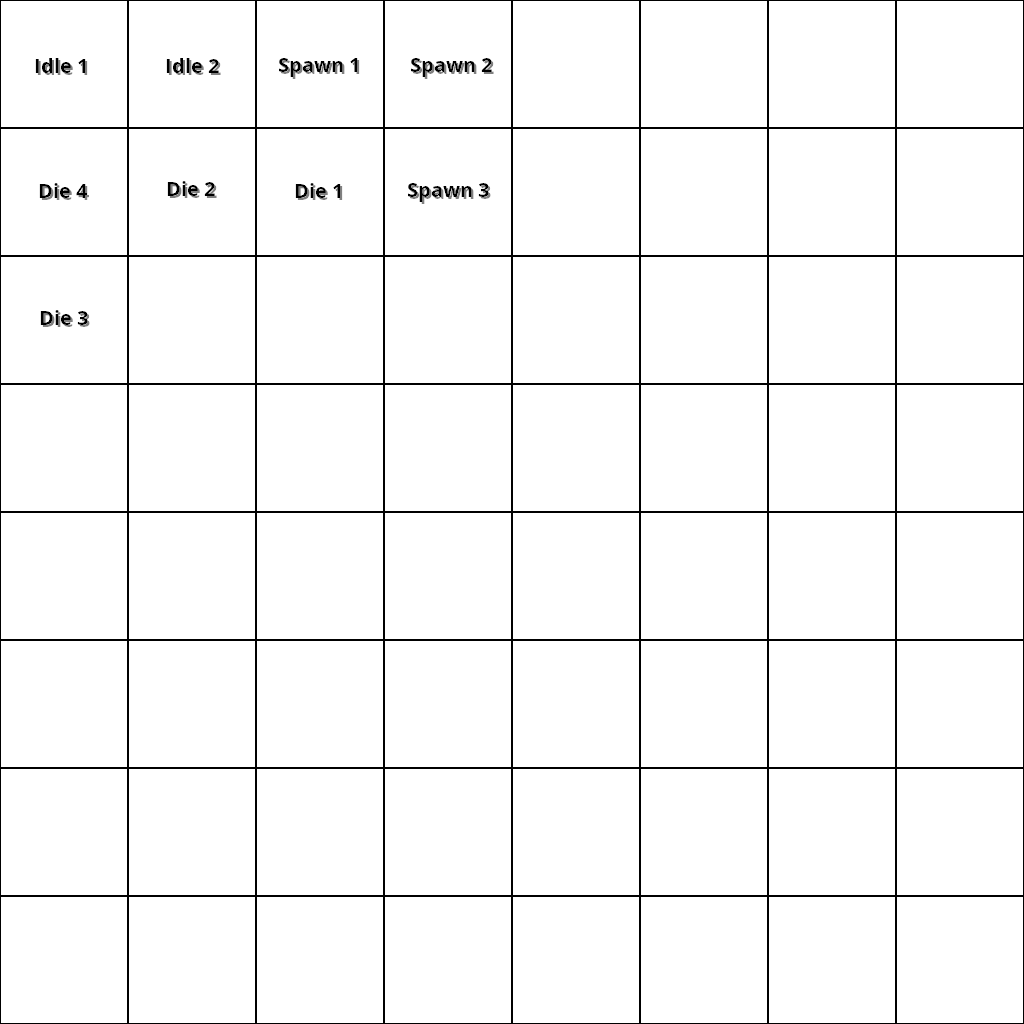
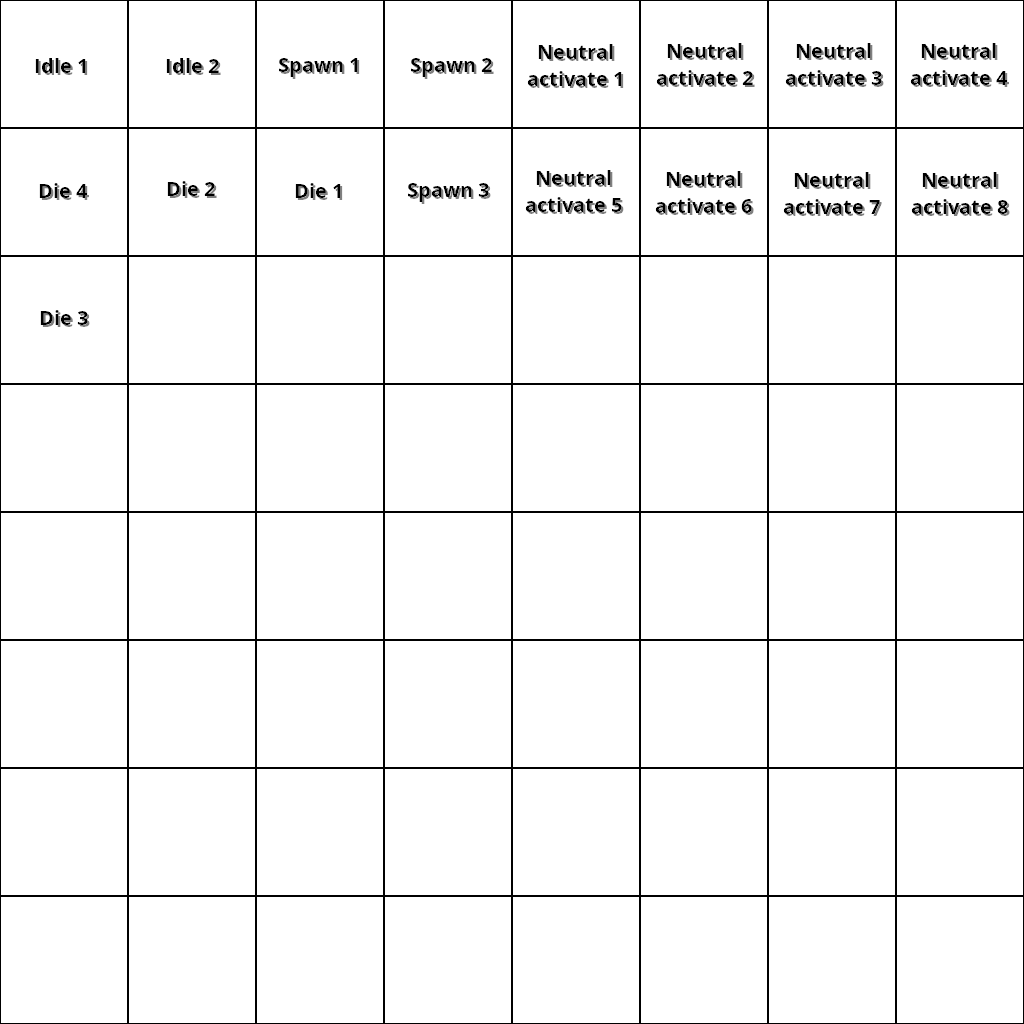
Added neutral shadow

Changed region(s): [[0.5, 0.1562, 1.0, 0.2188], [0.625, 0.0312, 1.0, 0.0938], [0.5, 0.0312, 0.5938, 0.0938]]

diff --git a/src/LibCore/Objects/Characters/VictoriaStar/Shadow.cpp b/src/LibCore/Objects/Characters/VictoriaStar/Shadow.cpp
@@ -72,6 +72,8 @@ namespace SpiralOfFate
 
 	void Shadow::activate()
 	{
+		if (this->_actionBlock >= ANIMBLOCK_NORMAL_ACTIVATED)
+			return;
 		if (this->_actionBlock == ANIMBLOCK_DYING) {
 			this->_animationCtr = this->getCurrentFrameData()->duration - this->_animationCtr - 1;
 			this->_animation = this->_moves.at(this->_action)[this->_actionBlock].size() - this->_animation - 1;
@@ -95,6 +97,8 @@ namespace SpiralOfFate
 		Object::copyToBuffer(data);
 		game->logger.verbose("Saving Shadow (Data size: " + std::to_string(sizeof(Data)) + ") @" + std::to_string((uintptr_t)dat));
 		dat->_invincibleTime = this->_invincibleTime;
+		dat->_boxSize = this->_boxSize;
+		dat->_loopInfo = this->_loopInfo;
 	}
 
 	void Shadow::restoreFromBuffer(void *data)
@@ -104,6 +108,8 @@ namespace SpiralOfFate
 		auto dat = reinterpret_cast<Data *>((uintptr_t)data + Object::getBufferSize());
 
 		this->_invincibleTime = dat->_invincibleTime;
+		this->_boxSize = dat->_boxSize;
+		this->_loopInfo = dat->_loopInfo;
 		game->logger.verbose("Restored Shadow @" + std::to_string((uintptr_t)dat));
 	}
 
@@ -119,6 +125,10 @@ namespace SpiralOfFate
 
 		if (dat1->_invincibleTime != dat2->_invincibleTime)
 			game->logger.fatal(std::string(msgStart) + "Shadow::_invincibleTime: " + std::to_string(dat1->_invincibleTime) + " vs " + std::to_string(dat2->_invincibleTime));
+		if (dat1->_boxSize != dat2->_boxSize)
+			game->logger.fatal(std::string(msgStart) + "Shadow::_boxSize: " + std::to_string(dat1->_boxSize) + " vs " + std::to_string(dat2->_boxSize));
+		if (dat1->_loopInfo != dat2->_loopInfo)
+			game->logger.fatal(std::string(msgStart) + "Shadow::_loopInfo: {" + std::to_string(dat1->_loopInfo.first) + "," + std::to_string(dat1->_loopInfo.second) + "} vs {" + std::to_string(dat2->_loopInfo.first) + "," + std::to_string(dat2->_loopInfo.second) + "}");
 		return length + sizeof(Data);
 	}
 
@@ -136,12 +146,37 @@ namespace SpiralOfFate
 
 	const FrameData *Shadow::getCurrentFrameData() const
 	{
-		auto dat = Object::getCurrentFrameData();
-
-		if (!this->_invincibleTime)
-			return dat;
-		this->_fakeData = *dat;
-
+		this->_fakeData = *Object::getCurrentFrameData();
+		if (this->_invincibleTime) {
+			this->_fakeData.dFlag.invulnerable = true;
+			this->_fakeData.dFlag.grabInvulnerable = true;
+			this->_fakeData.dFlag.projectileInvul = true;
+		}
+		for (auto &box : this->_fakeData.hitBoxes) {
+			box.pos.x -= this->_boxSize / 2;
+			box.pos.y -= this->_boxSize / 2;
+			box.size.x += this->_boxSize;
+			box.size.y += this->_boxSize;
+		}
 		return &this->_fakeData;
+	}
+
+	void Shadow::_applyNewAnimFlags()
+	{
+		Object::_applyNewAnimFlags();
+
+		auto data = this->getCurrentFrameData();
+
+		if (data->specialMarker == 0)
+			return;
+		if (data->specialMarker == 1) {
+			this->_loopInfo.first = this->_animation;
+			return;
+		}
+		if (this->_loopInfo.second == 0)
+			this->_loopInfo.second = data->specialMarker;
+		if (--this->_loopInfo.second == 0)
+			return;
+		this->_animation = this->_loopInfo.first;
 	}
 }

diff --git a/src/FrameDataEditor/dataEditor.cpp b/src/FrameDataEditor/dataEditor.cpp
@@ -2017,22 +2017,28 @@ void	newAnimBlockCallback(tgui::Gui &gui, std::unique_ptr<EditableObject> &objec
 
 void	newHurtBoxCallback(std::unique_ptr<EditableObject> &object, tgui::Panel::Ptr boxes)
 {
-	object->_moves.at(object->_action)[object->_actionBlock][object->_animation].hurtBoxes.push_back({{-10, -10}, {20, 20}});
+	auto &frame = object->_moves.at(object->_action)[object->_actionBlock][object->_animation];
+	auto &arr = frame.hurtBoxes;
 
-	auto &box = object->_moves.at(object->_action)[object->_actionBlock][object->_animation].hurtBoxes.back();
+	arr.push_back({{-10, -10}, {20, 20}});
 
-	refreshBoxes(boxes, object->_moves.at(object->_action)[object->_actionBlock][object->_animation], object);
-	selectBox(boxes->get<tgui::Button>("HurtBox" + std::to_string(object->_moves.at(object->_action)[object->_actionBlock][object->_animation].hurtBoxes.size() - 1)), &box);
+	auto &box = arr.back();
+
+	refreshBoxes(boxes, frame, object);
+	selectBox(boxes->get<tgui::Button>("HurtBox" + std::to_string(arr.size() - 1)), &box);
 }
 
 void	newHitBoxCallback(std::unique_ptr<EditableObject> &object, tgui::Panel::Ptr boxes)
 {
-	object->_moves.at(object->_action)[object->_actionBlock][object->_animation].hitBoxes.push_back({{-10, -10}, {20, 20}});
+	auto &frame = object->_moves.at(object->_action)[object->_actionBlock][object->_animation];
+	auto &arr = frame.hitBoxes;
 
-	auto &box = object->_moves.at(object->_action)[object->_actionBlock][object->_animation].hurtBoxes.back();
+	arr.push_back({{-10, -10}, {20, 20}});
 
-	refreshBoxes(boxes, object->_moves.at(object->_action)[object->_actionBlock][object->_animation], object);
-	selectBox(boxes->get<tgui::Button>("HitBox" + std::to_string(object->_moves.at(object->_action)[object->_actionBlock][object->_animation].hurtBoxes.size() - 1)), &box);
+	auto &box = arr.back();
+
+	refreshBoxes(boxes, frame, object);
+	selectBox(boxes->get<tgui::Button>("HitBox" + std::to_string(arr.size() - 1)), &box);
 }
 
 void	removeFrameCallback(std::unique_ptr<EditableObject> &object, tgui::Panel::Ptr boxes)

diff --git a/src/LibCore/Objects/Characters/VictoriaStar/VictoriaStar.cpp b/src/LibCore/Objects/Characters/VictoriaStar/VictoriaStar.cpp
@@ -99,6 +99,15 @@ namespace SpiralOfFate
 		return length + sizeof(Data);
 	}
 
+	void VictoriaStar::postUpdate()
+	{
+		Character::postUpdate();
+		// Not using std::remove_if because it doesn't work with MSVC for some reasons
+		for (unsigned i = 0; i < this->_shadows.size(); i++)
+			if (this->_shadows[i].second->isDead())
+				this->_shadows.erase(this->_shadows.begin() + i--);
+	}
+
 	static std::map<std::string, Shadow *(*)(
 		const std::vector<std::vector<FrameData>> &frameData,
 		unsigned int hp,
@@ -147,7 +156,13 @@ namespace SpiralOfFate
 				tint
 			));
 
-			return {needRegister ? manager.registerObject(obj) : 0, obj};
+			if (!needRegister)
+				return {0, obj};
+
+			auto objectId = manager.registerObject(obj);
+
+			this->_shadows.emplace_back(objectId, obj);
+			return {objectId, obj};
 		} catch (std::out_of_range &e) {
 			throw std::invalid_argument("Invalid shadow type '" + pdat.json["shadow"].get<std::string>() + "'");
 		}
@@ -231,6 +246,11 @@ namespace SpiralOfFate
 			butterfly.second = reinterpret_cast<Butterfly *>(&*manager.getObjectFromId(butterfly.first));
 		for (auto &butterfly : this->_weirdBufferFlies)
 			butterfly.second = reinterpret_cast<Butterfly *>(&*manager.getObjectFromId(butterfly.first));
+		for (auto &shadow : this->_shadows) {
+			auto obj = manager.getObjectFromId(shadow.first);
+
+			shadow.second = std::shared_ptr<Shadow>(obj, reinterpret_cast<Shadow *>(&*obj));
+		}
 		Character::resolveSubObjects(manager);
 	}
 
@@ -253,8 +273,11 @@ namespace SpiralOfFate
 		}
 	}
 
-	void VictoriaStar::update()
+	void VictoriaStar::_applyMoveAttributes()
 	{
-		Character::update();
+		Character::_applyMoveAttributes();
+		if (this->_action == ACTION_5A && this->getCurrentFrameData()->specialMarker)
+			for (auto &shadow : this->_shadows)
+				shadow.second->activate();
 	}
 }

diff --git a/src/LibCore/Objects/Character.cpp b/src/LibCore/Objects/Character.cpp
@@ -667,12 +667,6 @@ namespace SpiralOfFate
 				this->_guardCooldown += this->_maxGuardCooldown / 300;
 		}
 
-		for (auto &obj : this->_subobjects)
-			if (obj.second && obj.second->isDead()) {
-				obj.first = 0;
-				obj.second.reset();
-			}
-
 		this->_tickMove();
 		if (!this->_ultimateUsed) {
 			this->_matterMana += (this->_matterManaMax - this->_matterMana) * this->_regen;
@@ -3448,6 +3442,12 @@ namespace SpiralOfFate
 			}
 		this->_text2.setString(buffer);
 		this->_text2.setPosition({static_cast<float>(this->_team * 500 + 150) , -550});
+
+		for (auto &obj : this->_subobjects)
+			if (obj.second && obj.second->isDead()) {
+				obj.first = 0;
+				obj.second.reset();
+			}
 	}
 
 	unsigned char Character::_checkHitPos(const Object *other) const
@@ -4041,7 +4041,7 @@ namespace SpiralOfFate
 		for (auto it = this->_lastInputs.begin(); it != this->_lastInputs.end(); it++, i++)
 			((LastInput *)&dat[1])[i] = *it;
 		for (i = 0; i < this->_subobjects.size(); i++) {
-			if (this->_subobjects[i].first && this->_subobjects[i].second && !this->_subobjects[i].second->isDead())
+			if (this->_subobjects[i].first && this->_subobjects[i].second)
 				dat->_subObjects[i] = this->_subobjects[i].first;
 			else
 				dat->_subObjects[i] = 0;

diff --git a/src/LibCore/Objects/Characters/VictoriaStar/VictoriaStar.hpp b/src/LibCore/Objects/Characters/VictoriaStar/VictoriaStar.hpp
@@ -14,6 +14,8 @@
 
 namespace SpiralOfFate
 {
+	class Shadow;
+
 	class VictoriaStar : public Character {
 	private:
 #pragma pack(push, 1)
@@ -25,6 +27,7 @@ namespace SpiralOfFate
 		const Object *_target = nullptr;
 		bool _hitShadow = false;
 		std::vector<std::vector<FrameData>> _shadowActions;
+		std::vector<std::pair<unsigned, std::shared_ptr<Shadow>>> _shadows;
 		std::array<std::pair<unsigned, Butterfly *>, NB_BUTTERFLIES> _happyBufferFlies;
 		std::array<std::pair<unsigned, Butterfly *>, NB_BUTTERFLIES> _weirdBufferFlies;
 
@@ -34,6 +37,8 @@ namespace SpiralOfFate
 		bool _canCancel(unsigned int action) override;
 		void _forceStartMove(unsigned int action) override;
 		void _blockMove(Object *other, const FrameData &data) override;
+
+		void _applyMoveAttributes() override;
 
 	public:
 		VictoriaStar() = default;
@@ -54,7 +59,7 @@ namespace SpiralOfFate
 		void init(BattleManager &manager, const InitData &data) override;
 		void resolveSubObjects(const BattleManager &manager) override;
 		size_t printDifference(const char *msgStart, void *pVoid, void *pVoid1) const override;
-		void update() override;
+		void postUpdate() override;
 
 		friend class Butterfly;
 	};

diff --git a/src/LibCore/Objects/Characters/VictoriaStar/Shadow.hpp b/src/LibCore/Objects/Characters/VictoriaStar/Shadow.hpp
@@ -15,6 +15,8 @@ namespace SpiralOfFate
 #pragma pack(push, 1)
 		struct Data {
 			unsigned char _invincibleTime;
+			unsigned _boxSize;
+			std::pair<unsigned char, unsigned char> _loopInfo;
 		};
 #pragma pack(pop)
 
@@ -24,7 +26,6 @@ namespace SpiralOfFate
 			ANIMBLOCK_DYING,
 			ANIMBLOCK_RESURRECT,
 			ANIMBLOCK_NORMAL_ACTIVATED,
-			ANIMBLOCK_NORMAL_ATTACKING,
 			ANIMBLOCK_MATTER_ACTIVATED,
 			ANIMBLOCK_MATTER_ATTACKING,
 			ANIMBLOCK_SPIRIT_ACTIVATED,
@@ -42,6 +43,10 @@ namespace SpiralOfFate
 
 		// Game state
 		unsigned _invincibleTime = 0;
+		unsigned _boxSize = 0;
+		std::pair<unsigned char, unsigned char> _loopInfo = {0, 0};
+
+		void _applyNewAnimFlags() override;
 
 	public:
 		Shadow(
@@ -62,6 +67,8 @@ namespace SpiralOfFate
 		void restoreFromBuffer(void *data) override;
 		size_t printDifference(const char *msgStart, void *pVoid, void *pVoid1) const override;
 		virtual void activate();
+
+	public:
 		void setInvincible(unsigned time);
 		void getHit(IObject &other, const FrameData *data) override;
 	};

diff --git a/src/LibCore/Objects/Characters/VictoriaStar/Shadows/NeutralShadow.cpp b/src/LibCore/Objects/Characters/VictoriaStar/Shadows/NeutralShadow.cpp
@@ -89,10 +89,9 @@ namespace SpiralOfFate
 	void NeutralShadow::update()
 	{
 		Shadow::update();
-		if (this->_actionBlock == ANIMBLOCK_IDLE)
-			this->_idleCounter += this->_idleCounter < 120;
-		else
-			this->_idleCounter = 0;
+		this->_idleCounter += this->_actionBlock == ANIMBLOCK_IDLE && this->_idleCounter < 120;
+		if (this->_loopInfo.first)
+			this->_boxSize += 8;
 		if (this->_idleCounter < 120)
 			return;
 
@@ -120,6 +119,7 @@ namespace SpiralOfFate
 
 		color.a = 255;
 		this->_sprite.setColor(color);
+		this->_idleCounter = 0;
 		Shadow::activate();
 	}
 }

diff --git a/src/LibCore/Objects/Character.hpp b/src/LibCore/Objects/Character.hpp
@@ -759,7 +759,7 @@ namespace SpiralOfFate
 		void update() override;
 		InputStruct updateInputs();
 		void consumeEvent(const sf::Event &event);
-		void postUpdate();
+		virtual void postUpdate();
 		std::shared_ptr<IInput> &getInput();
 		const std::shared_ptr<IInput> &getInput() const;
 		const std::map<unsigned, std::vector<std::vector<FrameData>>> &getFrameData();

diff --git a/src/LibCore/Resources/Battle/BattleManager.cpp b/src/LibCore/Resources/Battle/BattleManager.cpp
@@ -560,6 +560,7 @@ namespace SpiralOfFate
 		my_assert(!lchr->isDead());
 		my_assert(!rchr->isDead());
 
+		// Not using std::remove_if because it doesn't work with MSVC for some reasons
 		for (unsigned i = 0; i < this->_objects.size(); i++)
 			if (this->_objects[i].second->isDead())
 				this->_objects.erase(this->_objects.begin() + i--);
